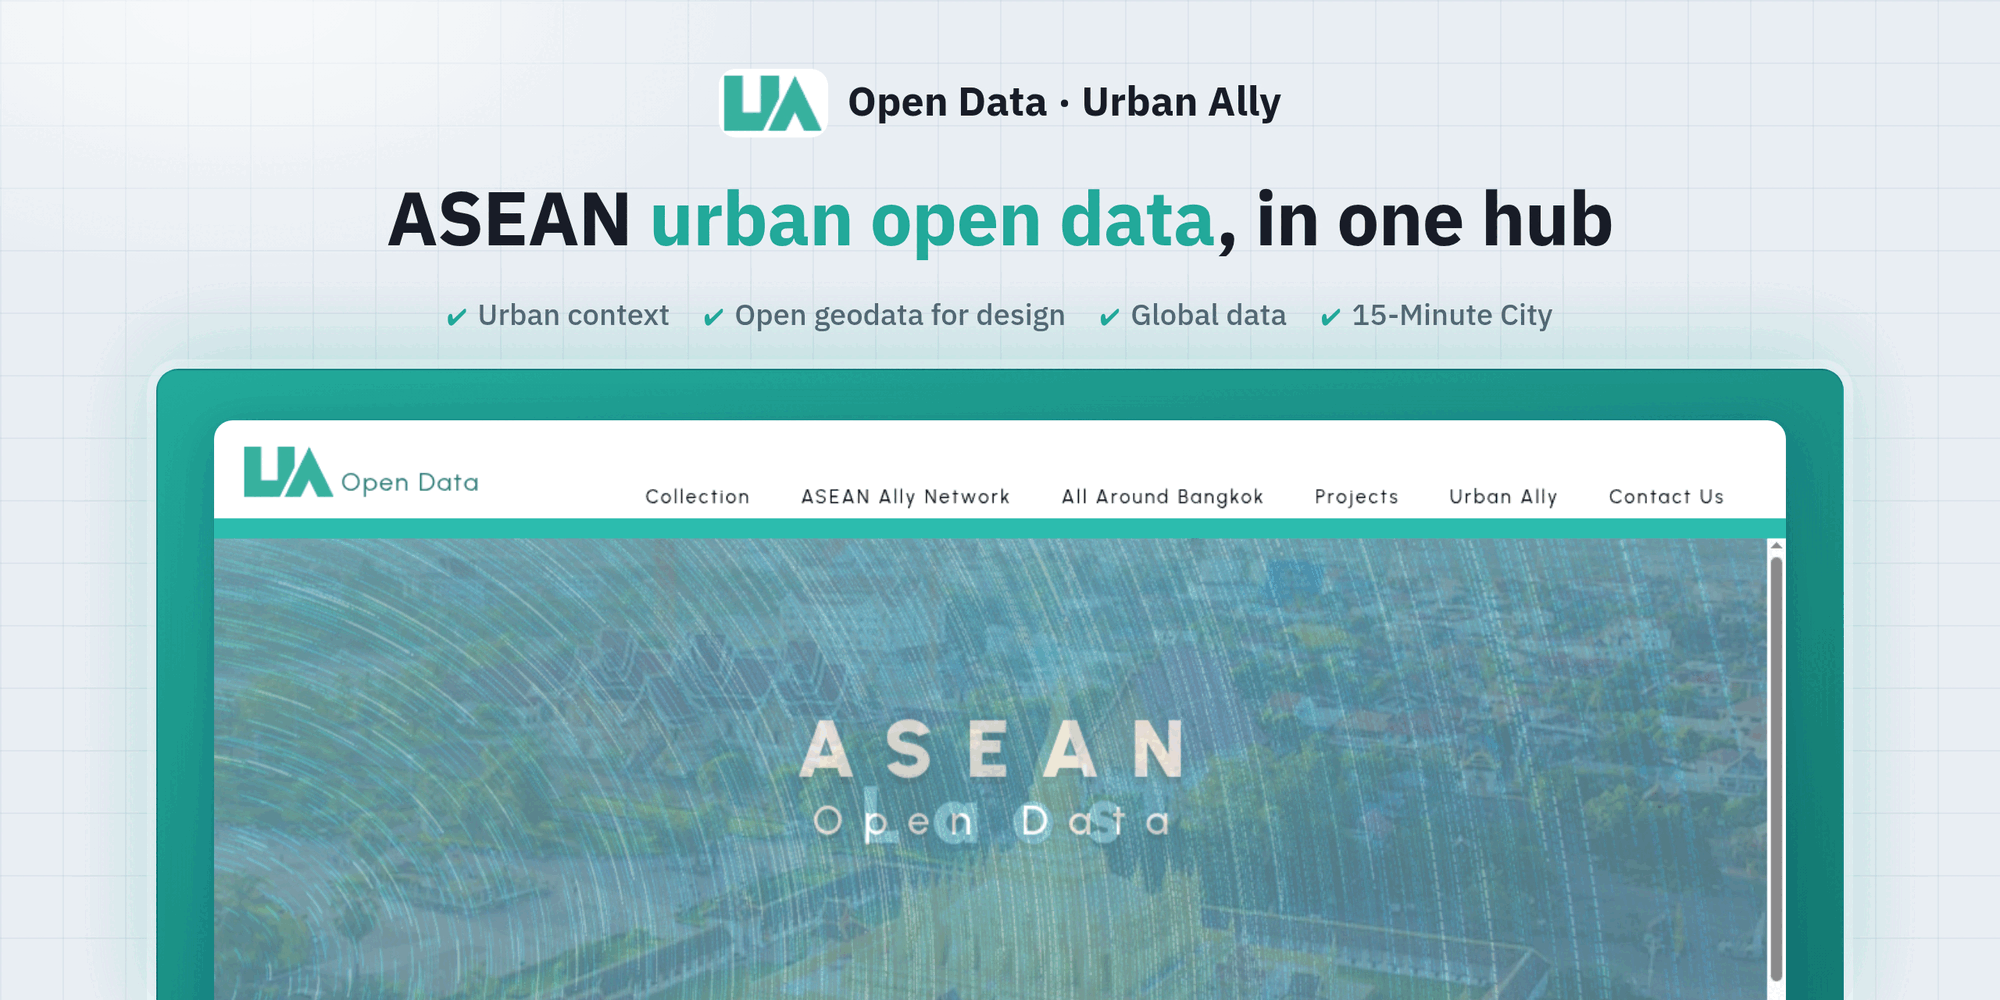
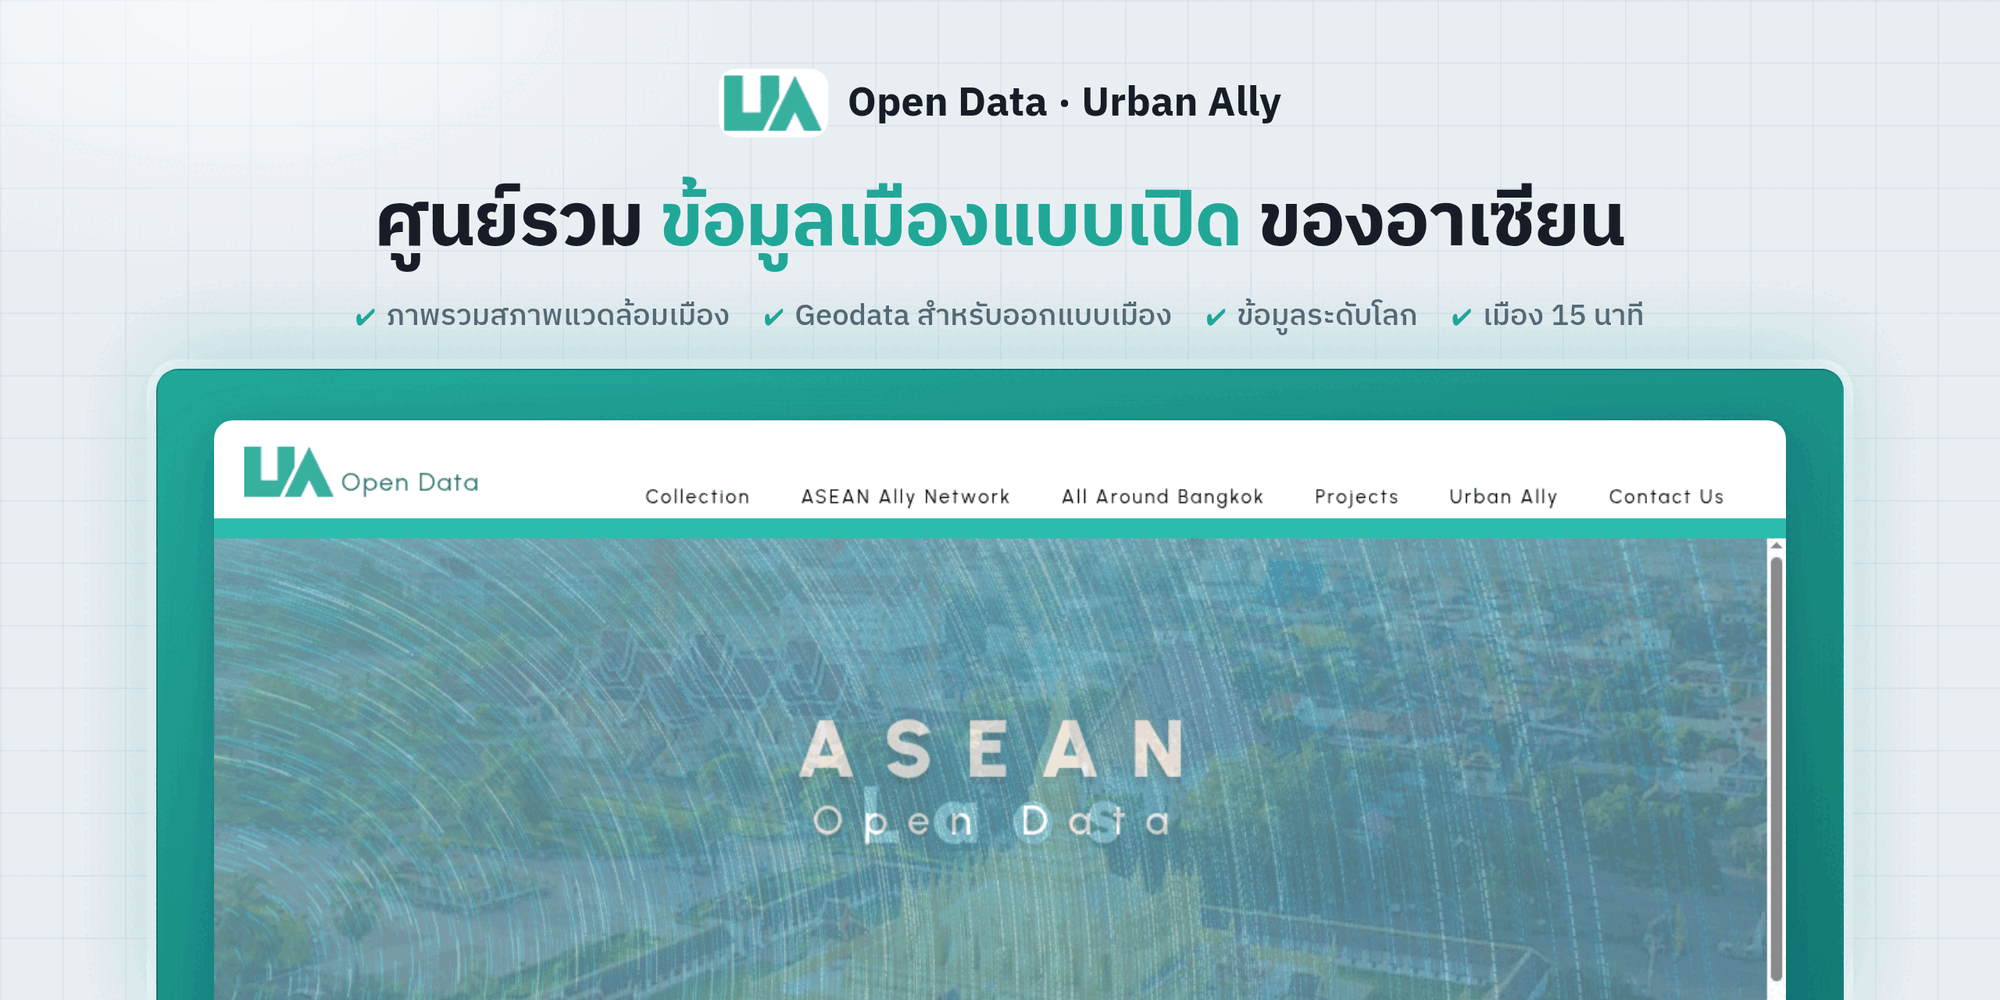
Thai copy on new cards, reorder selected work

Changed region(s): [[0.186, 0.186, 0.837, 0.279], [0.186, 0.279, 0.837, 0.341]]

diff --git a/docs/cards/card-opendata.html b/docs/cards/card-opendata.html
@@ -1,5 +1,5 @@
 <!doctype html>
-<html lang="en">
+<html lang="th">
 <head>
 <meta charset="utf-8" />
 <link rel="preconnect" href="https://fonts.googleapis.com" />
@@ -37,8 +37,8 @@
 <body>
   <div class="top">
     <div class="brand"><img src="ua-teal.png" alt="" />Open Data · Urban Ally</div>
-    <h1>ASEAN <em>urban open data</em>, in one hub</h1>
-    <div class="checks"><span>Urban context</span><span>Open geodata for design</span><span>Global data</span><span>15-Minute City</span></div>
+    <h1>ศูนย์รวม <em>ข้อมูลเมืองแบบเปิด</em> ของอาเซียน</h1>
+    <div class="checks"><span>ภาพรวมสภาพแวดล้อมเมือง</span><span>Geodata สำหรับออกแบบเมือง</span><span>ข้อมูลระดับโลก</span><span>เมือง 15 นาที</span></div>
   </div>
   <div class="shot"><img src="opendata.png" alt="" /></div>
 </body>

diff --git a/docs/cards/card-rabbit.html b/docs/cards/card-rabbit.html
@@ -1,5 +1,5 @@
 <!doctype html>
-<html lang="en">
+<html lang="th">
 <head>
 <meta charset="utf-8" />
 <link rel="preconnect" href="https://fonts.googleapis.com" />
@@ -37,8 +37,8 @@
 <body>
   <div class="top">
     <div class="brand"><img src="rabbit-icon.png" alt="" />Rabbit Rewards</div>
-    <h1>Every daily trip <em>turns into rewards</em></h1>
-    <div class="checks"><span>Earn points on BTS &amp; Rabbit Card</span><span>Redeem free trips</span><span>Partner promotions</span></div>
+    <h1>เปลี่ยนทุกการเดินทาง <em>เป็นรางวัล</em></h1>
+    <div class="checks"><span>สะสมแต้มจาก BTS และบัตร Rabbit</span><span>แลกเที่ยวเดินทางฟรี</span><span>โปรโมชั่นร้านค้าพาร์ทเนอร์</span></div>
   </div>
   <div class="shot"><img src="rabbit.png" alt="" /></div>
 </body>

diff --git a/docs/cards/card-sonic.html b/docs/cards/card-sonic.html
@@ -1,5 +1,5 @@
 <!doctype html>
-<html lang="en">
+<html lang="th">
 <head>
 <meta charset="utf-8" />
 <link rel="preconnect" href="https://fonts.googleapis.com" />
@@ -37,8 +37,8 @@
 <body>
   <div class="top">
     <div class="brand"><img src="ua-dark.png" alt="" />Sonic Bangkok · Urban Ally</div>
-    <h1>Bangkok's old town, <em>mapped by sound</em></h1>
-    <div class="checks"><span>Open sound archive</span><span>Theme filters on a live map</span><span>With Hear&amp;Found</span></div>
+    <h1>สำรวจย่านเมืองเก่า <em>ผ่านเสียง</em></h1>
+    <div class="checks"><span>ฐานข้อมูลเสียงแบบเปิด</span><span>แผนที่กรองตามธีมเสียง</span><span>ร่วมกับ Hear&amp;Found</span></div>
   </div>
   <div class="shot"><img src="sonic.png" alt="" /></div>
 </body>

diff --git a/docs/cards/make.py b/docs/cards/make.py
@@ -3,7 +3,7 @@ import pathlib
 
 HERE = pathlib.Path(__file__).parent
 TEMPLATE = """<!doctype html>
-<html lang="en">
+<html lang="th">
 <head>
 <meta charset="utf-8" />
 <link rel="preconnect" href="https://fonts.googleapis.com" />
@@ -52,16 +52,16 @@ TEMPLATE = """<!doctype html>
 CARDS = {
     "rabbit": dict(name="Rabbit Rewards", icon="rabbit-icon.png", shot="rabbit.png",
                    accent="#F28C1E", accent2="#0F2357", glow="rgb(242 140 30 / 0.28)",
-                   before="Every daily trip", accent_text="turns into rewards", after="",
-                   checks=["Earn points on BTS &amp; Rabbit Card", "Redeem free trips", "Partner promotions"]),
+                   before="เปลี่ยนทุกการเดินทาง", accent_text="เป็นรางวัล", after="",
+                   checks=["สะสมแต้มจาก BTS และบัตร Rabbit", "แลกเที่ยวเดินทางฟรี", "โปรโมชั่นร้านค้าพาร์ทเนอร์"]),
     "opendata": dict(name="Open Data · Urban Ally", icon="ua-teal.png", shot="opendata.png",
                      accent="#22A99A", accent2="#147a70", glow="rgb(34 169 154 / 0.28)",
-                     before="ASEAN", accent_text="urban open data", after=", in one hub",
-                     checks=["Urban context", "Open geodata for design", "Global data", "15-Minute City"]),
+                     before="ศูนย์รวม", accent_text="ข้อมูลเมืองแบบเปิด", after=" ของอาเซียน",
+                     checks=["ภาพรวมสภาพแวดล้อมเมือง", "Geodata สำหรับออกแบบเมือง", "ข้อมูลระดับโลก", "เมือง 15 นาที"]),
     "sonic": dict(name="Sonic Bangkok · Urban Ally", icon="ua-dark.png", shot="sonic.png",
                   accent="#22A99A", accent2="#181C27", glow="rgb(34 169 154 / 0.28)",
-                  before="Bangkok's old town,", accent_text="mapped by sound", after="",
-                  checks=["Open sound archive", "Theme filters on a live map", "With Hear&amp;Found"]),
+                  before="สำรวจย่านเมืองเก่า", accent_text="ผ่านเสียง", after="",
+                  checks=["ฐานข้อมูลเสียงแบบเปิด", "แผนที่กรองตามธีมเสียง", "ร่วมกับ Hear&amp;Found"]),
 }
 
 for key, c in CARDS.items():
